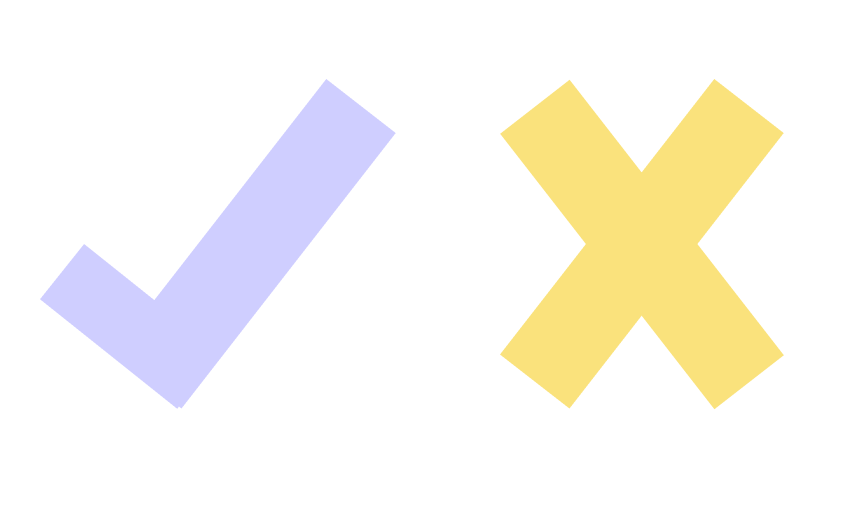
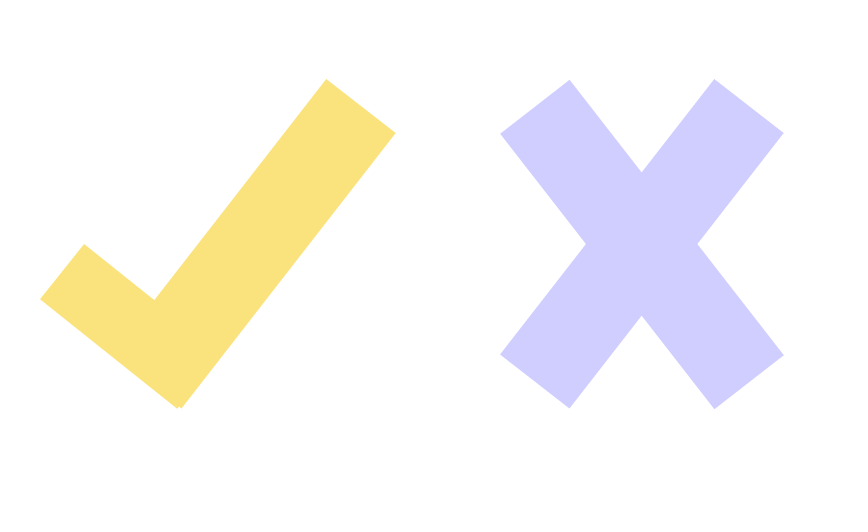
feat: Adding Animated bar chart in ProjectStatus/Admin and updating the CountChart

Changed region(s): [[0.5599, 0.1504, 0.9021, 0.782], [0.0311, 0.1504, 0.4666, 0.782]]

diff --git a/frontend/app/components/CountCharts.tsx b/frontend/app/components/CountCharts.tsx
@@ -3,39 +3,38 @@
 import Image from 'next/image';
 import checkImage from "@/public/check.png";
 
-{/*Chatgpt helps me with this fck sht*/}
+{/*Chatgpt helps me with this fck sht*/ }
 import {
   RadialBarChart as RechartsRadialBarChart,
   RadialBar as RechartsRadialBar,
   Legend as RechartsLegend,
   ResponsiveContainer,
 } from 'recharts';
-import type { RadialBarProps, LegendProps } from 'recharts'; 
+import type { RadialBarProps, LegendProps } from 'recharts';
 import moreDarkImage from "@/public/moreDark.png";
 
-{/*Chatgpt helps me with this fck sht too*/}
+{/*Chatgpt helps me with this fck sht too*/ }
 const RadialBarChart = RechartsRadialBarChart as unknown as React.FC<any>;
 const RadialBar = RechartsRadialBar as unknown as React.FC<RadialBarProps>;
 const Legend = RechartsLegend as unknown as React.FC<any>;
 
 
 const data = [
-    {
-        name: 'Total',
-        count: 100,
-        fill: 'white',
-    },
-    {
-        name: 'Entregado',
-        count: 55,
-        fill: '#CFCEFF',
-    },
-    {
-        name: 'Sin entregar',
-        count: 45,
-        fill: '#FAE27C',
-    },
-
+  {
+    name: 'Total',
+    count: 100,
+    fill: 'white',
+  },
+  {
+    name: 'Sin entregar',
+    count: 45,
+    fill: '#CFCEFF',
+  },
+  {
+    name: 'Entregado',
+    count: 55,
+    fill: '#FAE27C',
+  },
 ];
 
 
@@ -65,24 +64,24 @@ export default function CountCharts() {
             />
           </RadialBarChart>
         </ResponsiveContainer>
-        <Image 
-         src={checkImage} 
-         alt='image' 
-         width={100} 
-         height={100}
-         className='absolute top-1/2 left-1/2 -translate-x-1/2 -translate-y-1/2'
+        <Image
+          src={checkImage}
+          alt='image'
+          width={100}
+          height={100}
+          className='absolute top-1/2 left-1/2 -translate-x-1/2 -translate-y-1/2'
         />
       </div>
 
       {/* BOTTOM */}
       <div className="flex justify-center gap-16">
         <div className="flex flex-col gap-1">
-          <div className="w-5 h-5 bg-[#CFCEFF] rounded-full" />
+          <div className="w-5 h-5 bg-[#FAE27C] rounded-full" />
           <h1 className="font-bold">1,234</h1>
           <h2 className="text-xs text-gray-300">Entregado (55%)</h2>
         </div>
         <div className="flex flex-col gap-1">
-          <div className="w-5 h-5 bg-[#FAE27C] rounded-full" />
+          <div className="w-5 h-5 bg-[#CFCEFF] rounded-full" />
           <h1 className="font-bold">1,234</h1>
           <h2 className="text-xs text-gray-300">Sin entregar (45%)</h2>
         </div>

diff --git a/frontend/app/components/ProjectStatusChart.tsx b/frontend/app/components/ProjectStatusChart.tsx
@@ -1,0 +1,81 @@
+'use client'
+import Image from 'next/image';
+import moreDarkImage from '@/public/moreDark.png';
+
+{/* CHAT GPT HELPS ME WITH THESE ERRORS AGAIN */ }
+import {
+  BarChart,
+  Bar,
+  Rectangle,
+  XAxis,
+  YAxis,
+  CartesianGrid,
+  Tooltip,
+  Legend as RechartsLegend,
+  ResponsiveContainer
+} from 'recharts';
+
+{/* CHAT GPT HELPS ME WITH THIS ONE TOO */ }
+const Legend = RechartsLegend as unknown as React.FC<any>;
+
+const data = [
+  {
+    name: 'Semana 1',
+    aprobado: 60,
+    rechazado: 40,
+  },
+  {
+    name: 'Semana 2',
+    aprobado: 70,
+    rechazado: 30,
+  },
+  {
+    name: 'Semana 3',
+    aprobado: 20,
+    rechazado: 50,
+  },
+  {
+    name: 'Semana 4',
+    aprobado: 31,
+    rechazado: 42,
+  }
+];
+
+export default function ProjectStatusChart() {
+  return (
+    <div className='bg-white rounded-lg p-4 h-full'>
+      <div className="flex justify-between items-center">
+        <h1 className='text-lg font-semibold'>Resumen Proyectos por Semana</h1>
+        <Image src={moreDarkImage} alt='' width={20} height={20} />
+      </div>
+      <ResponsiveContainer width="100%" height="90%">
+        <BarChart
+          width={500}
+          height={300}
+          data={data}
+          barSize={20}
+        >
+          <CartesianGrid strokeDasharray="3 3" vertical={false} stroke="#ddd" />
+          <XAxis dataKey="name"axisLine={false}  tickLine={false} />
+          <YAxis axisLine={false}/>
+          <Tooltip contentStyle={{borderRadius: "10px", borderColor: "lightgray"}} />
+          <Legend align="left" verticalAlign="top" wrapperStyle={{ paddingTop: '20px', paddingBottom: '40px' }} />
+          <Bar 
+            dataKey="aprobado" 
+            fill="#FAE27C" 
+            activeBar={<Rectangle fill="pink" stroke="blue" />} 
+            legendType="circle"
+            radius={[10,10,0,0]}
+            />
+          <Bar 
+            dataKey="rechazado" 
+            fill="#CFCEFF" 
+            activeBar={<Rectangle fill="gold" stroke="purple" />} 
+            legendType="circle"
+            radius={[10,10,0,0]}
+            />
+        </BarChart>
+      </ResponsiveContainer>
+    </div>
+  )
+}

diff --git a/frontend/app/(dashboard)/admin/page.tsx b/frontend/app/(dashboard)/admin/page.tsx
@@ -1,32 +1,33 @@
 import CountCharts from "@/app/components/CountCharts";
 import UserCard from "@/app/components/UserCard";
+import ProjectStatusChart from "@/app/components/ProjectStatusChart";
 
 export default function AdminPage() {
   return (
-    <div className="p-4 flex gap-4 flex-col md:flex-col">
+    <div className="p-4 flex gap-4 flex-col md:flex-row">
       {/* LEFT */}
       <div className="w-full lg:w-2/3 flex flex-col gap-8">
         {/* USER CARDS */}
         <div className="flex gap-4 justify-between flex-wrap">
-          <UserCard type="Total proyectos grado registrados"/>
-          <UserCard type="Proyectos en curso"/>
-          <UserCard type="Proyectos finalizados"/>
-          <UserCard type="Profesores/directores activos"/>
+          <UserCard type="Total proyectos grado registrados" />
+          <UserCard type="Proyectos en curso" />
+          <UserCard type="Proyectos finalizados" />
+          <UserCard type="Profesores/directores activos" />
         </div>
+        {/* MIDDLE CHARTS */}
+        <div className="flex gap-4 flex-col lg:flex-row">
+          {/* COUNT CHART */}
+          <div className="w-full lg:w-1/3 h-[450px]">
+            <CountCharts />
+          </div>
+          {/* ATTENDANCE CHART */}
+          <div className="w-full lg:w-2/3 h-[450px]">
+            <ProjectStatusChart />
+          </div>
+        </div>
+        {/* BOTTOM CHARTS */}
+        <div className=""></div>
       </div>
-      {/* MIDDLE CHARTS */}
-      <div className="flex gap-4 flex-col lg:flex-row">
-        {/* COUNT CHART */}
-        <div className="w-full lg:w-1/3 h-[450px]">
-          <CountCharts />
-        </div>
-        {/* ATTENDANCE CHART */}
-        <div className="w-full lg:w-2/3 h-[450px]">
-        
-        </div>
-      </div>
-      {/* BOTTOM CHARTS */}
-      <div className=""></div>
       {/* RIGHT */}
       <div className="w-full lg:w-1/3">r</div>
     </div>
